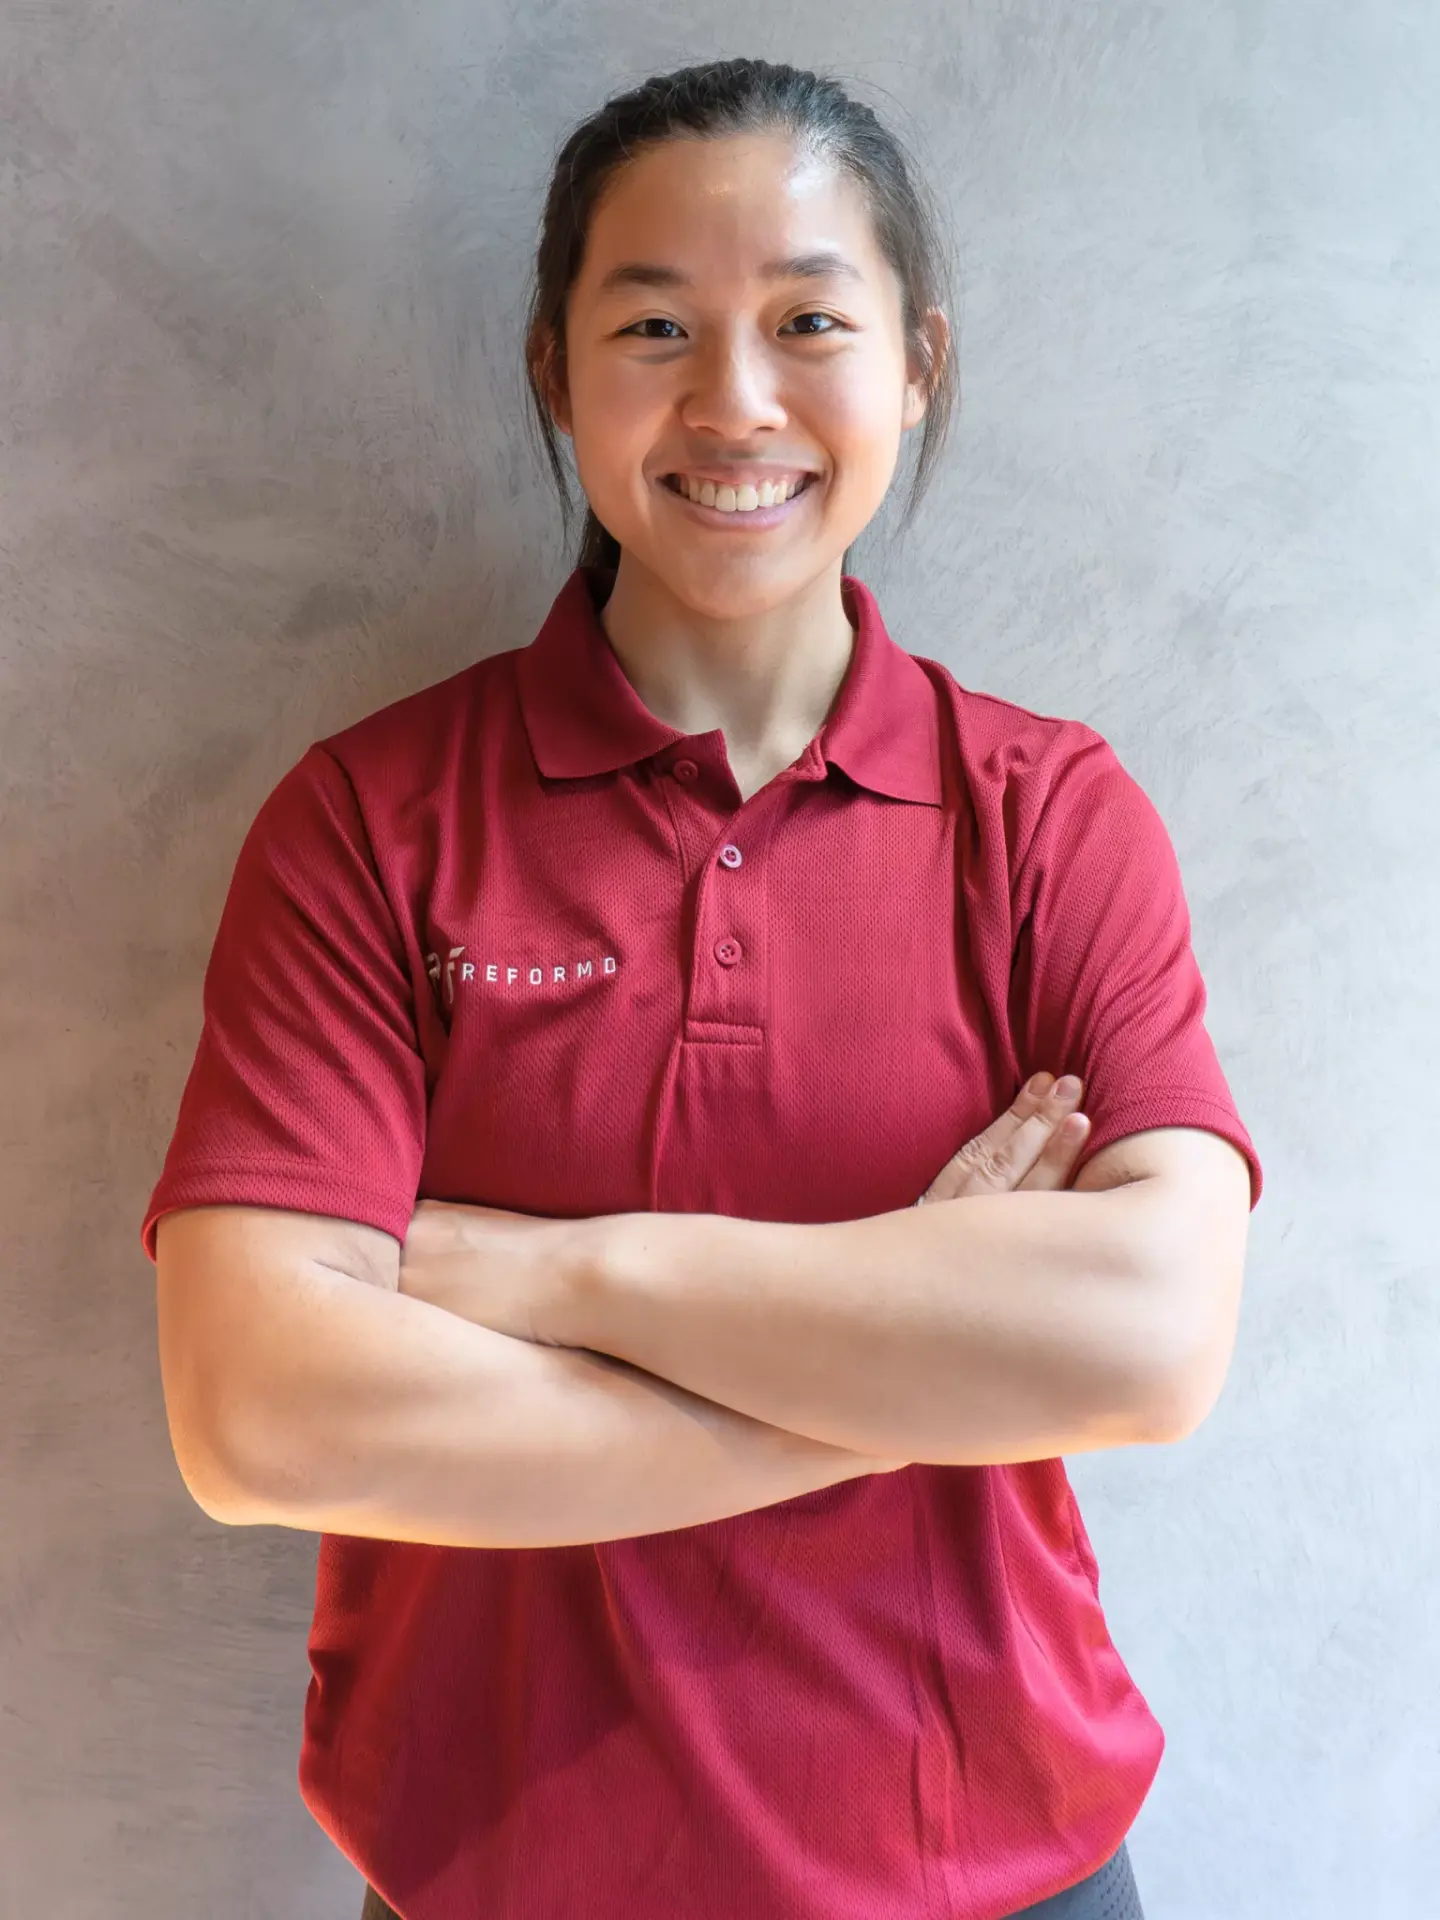
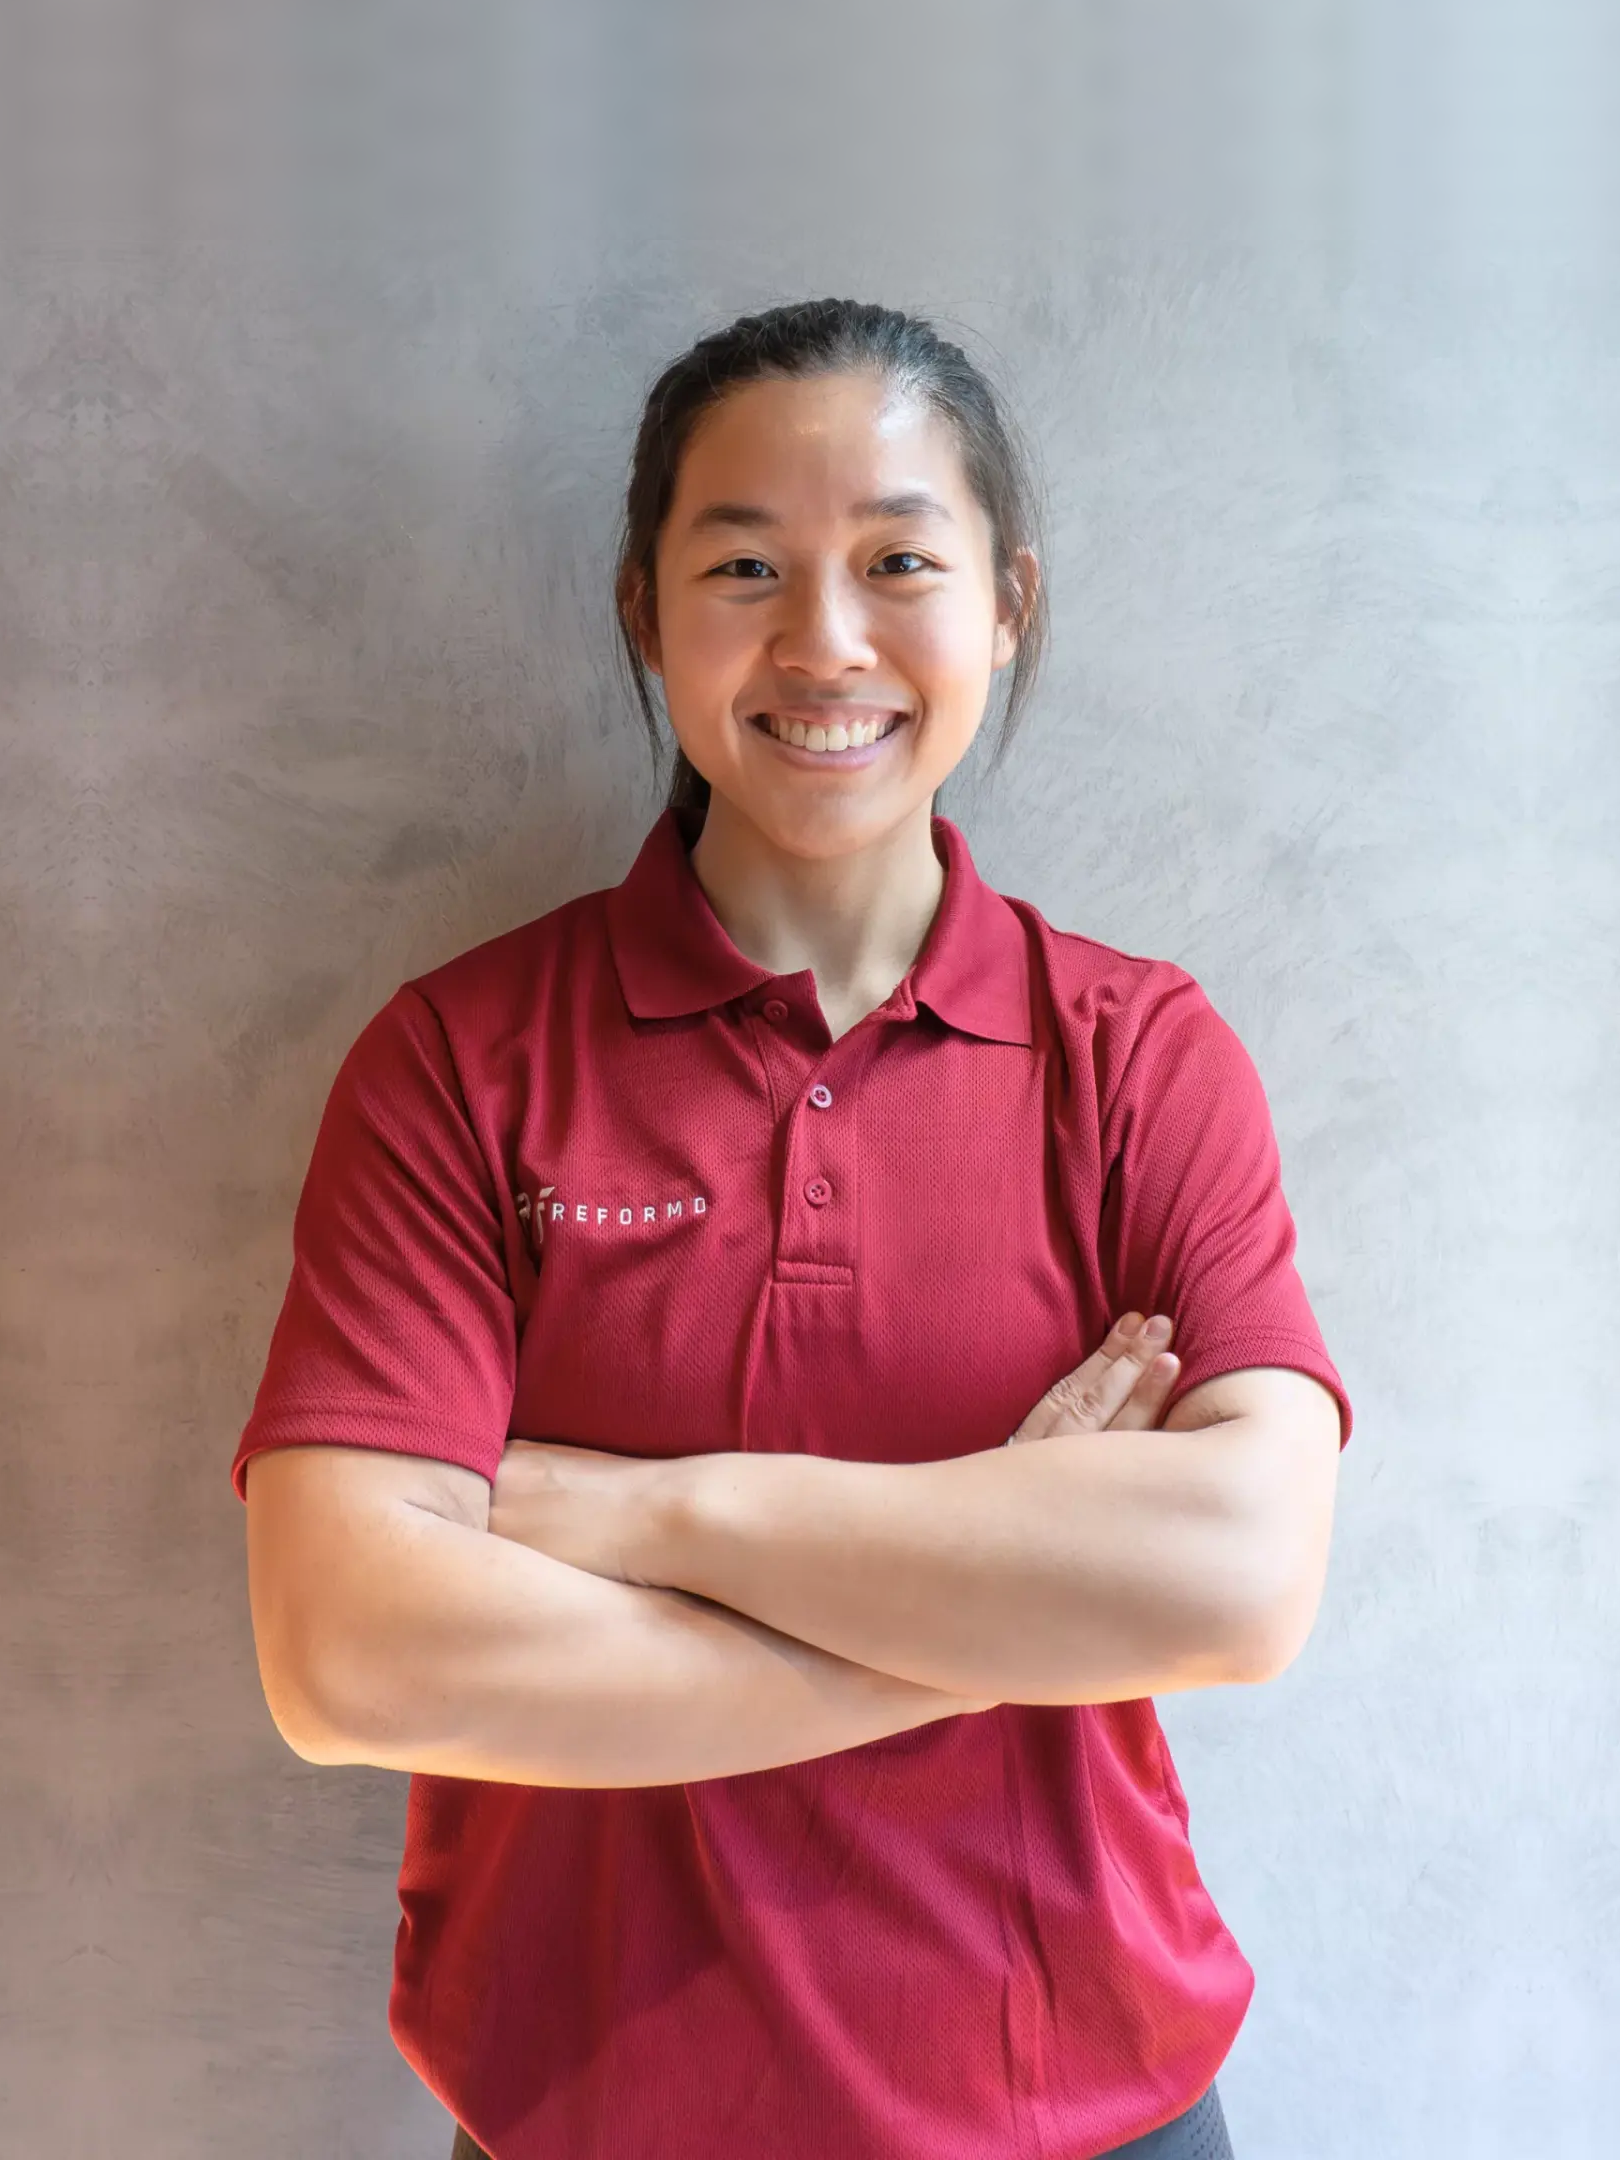
Make Rachel's team photo smaller and lower her head to match Chek

diff --git a/src/data/site.ts b/src/data/site.ts
@@ -531,7 +531,7 @@ export const team: Trainer[] = [
     },
   },
   {
-    slug: "rachel-tan", firstName: "Rachel", lastName: "Tan", name: "Rachel Tan", title: "RF Academy Certified Personal Trainer", image: "/images/rachel-headshot.png", imageStyle: { transform: "scale(1.08)", transformOrigin: "50% 100%", objectPosition: "50% 0%", translate: "0 6%" }, specialisations: ["Strength", "Body recomposition"],
+    slug: "rachel-tan", firstName: "Rachel", lastName: "Tan", name: "Rachel Tan", title: "RF Academy Certified Personal Trainer", image: "/images/rachel-headshot.png", imageStyle: { transform: "scale(1.08)", transformOrigin: "50% 0%", objectPosition: "50% 0%", translate: "0 -3%" }, specialisations: ["Strength", "Body recomposition"],
     profile: {
       banner: "/images/rachel-banner.png",
       focus: ["Strength and Conditioning", "Hypertrophy", "Mobility", "Weight Management", "Sustainable Training", "Women\u2019s Strength Training", "Beginner Friendly Coaching"],
